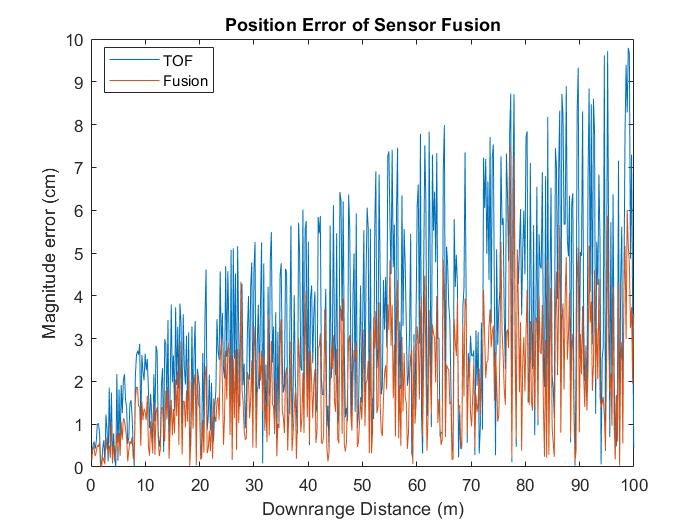
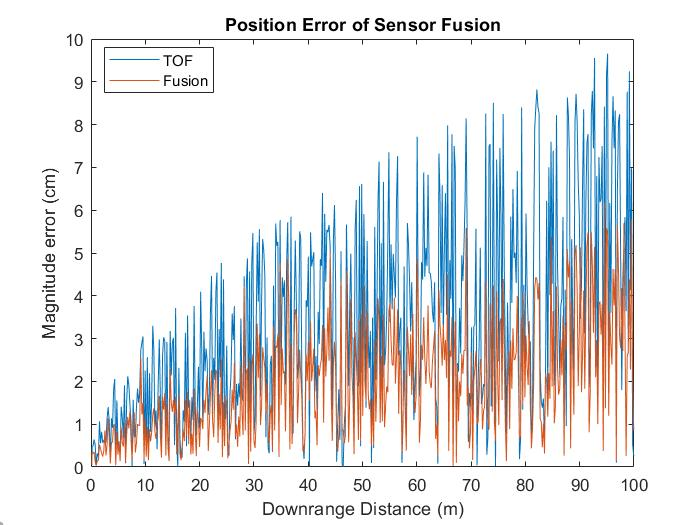
fixed direction choosing for random error

Changed region(s): [[0.12, 0.0914, 0.93, 0.8838]]

diff --git a/4-Sensor Fusion/CDR Sensor Fusion/CDR_Sensor_Fusion_main.m b/4-Sensor Fusion/CDR Sensor Fusion/CDR_Sensor_Fusion_main.m
@@ -52,7 +52,7 @@ errDir_cam = [errX_cam, errY_cam, errZ_cam];
 % Create TOF data with error
 errMagVec = (rand(numFrame,1)-0.5).*2.*errMag_TOF;
 
-errDirVec = rand(numFrame,3).*errDir_TOF;
+errDirVec = (rand(numFrame,3)-0.5).*2.*errDir_TOF;
 errDirVec = errDirVec./sqrt(errDirVec(:,1).^2 + errDirVec(:,2).^2 + errDirVec(:,3).^2);
 errVec = errDirVec.*errMagVec;
 pos_TOF = pos_truth + errVec;
@@ -60,7 +60,7 @@ pos_TOF = pos_truth + errVec;
 % Create camera data with error
 errMagVec = (rand(numFrame,1)-0.5).*2.*errMag_cam;
 
-errDirVec = rand(numFrame,3).*errDir_cam;
+errDirVec = (rand(numFrame,3)-0.5).*2.*errDir_cam;
 errDirVec = errDirVec./sqrt(errDirVec(:,1).^2 + errDirVec(:,2).^2 + errDirVec(:,3).^2);
 errVec = errDirVec.*errMagVec;
 pos_cam = pos_truth + errVec;
@@ -114,13 +114,16 @@ loglog(benchTime)
 xlabel('Frame')
 ylabel('Runtime (s)')
 title('Sensor Fusion Runtime')
-%
+%}
 figure
 plot3(pos_truth(:,1),pos_truth(:,2),pos_truth(:,3),'r.')
 hold on
 plot3(pos_TOF(:,1),pos_TOF(:,2),pos_TOF(:,3),'b.')
 plot3(pos_cam(:,1),pos_cam(:,2),pos_cam(:,3),'g.')
 plot3(pos_fusion(:,1),pos_fusion(:,2),pos_fusion(:,3),'k.')
-
-
-%}
+plot3(camOrigin(1), camOrigin(2), camOrigin(3),'k*')
+plot3(pos_init(1), pos_init(2), pos_init(3),'r*')
+xlabel('x (m)'); ylabel('y (m)'); zlabel('z (m)')
+legend('True position','TOF position','Camera position','Fusion position','Camera Origin','Launch position','Location','best')
+grid on
+%
